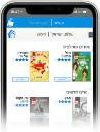
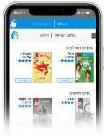
Coded most of the stuff, works good for chrome

diff --git a/index.html b/index.html
@@ -3,6 +3,7 @@
 <html lang="en">
 <head>
   <meta charset="utf-8">
+  <meta name="viewport" content="width=device-width">
 
   <title>Yes website</title>
 
@@ -12,51 +13,60 @@
 
 <body>
   <header>
-    <img src="assets/header.png" alt="join us">
+    <img class="title" src="assets/header.png" alt="join us">
   </header>
-  <section>
-    <article>
-      <h2>קטלוג ספרים דיגיטליים לכולם עם אלפי ספרים לקריאה מהסמארטפון ומהטאבלט</h1>
-      <ul>
-        <li>קטלוג ספרים זמין 24/7</li>
-        <li>קוראים בקצב שלכם ללא הגבלת זמן</li>
-        <li>לבחור ספרים, להוריד ולקרוא מבלי לגעת בחבילת הגלישה שלכם</li>
-        <li>לקחת בהשאלה 2 ספרים בחודש ללא תוספת תשלום</li>
-        <li>מבחר ספרים עדכני</li>
-        <li>הספרים איתכם בכל זמן ובכל מקום</li>
-        <li>טסים לחו"ל?
-          לא צריך לפחד מ-overweight
-        </li>
-        <li>גודל פונט בהתאמה אישית</li>
-      </ul>
-      <img src="assets/banner.png" alt="books in phone">        
-    </article>
-    <article>
-      <h2>חודש ראשון עלינו</h2>
-      <h3>ואח"כ רק 9.90 בחודש</h3>
-      <button>לקטלוג הספרים המלא</button>
-      <button>להורדת האפליקציה</button>
-    </article>
-  </section>
-  <section class="books">
-    <article class="book">74*55</article>
-    <article class="book"></article>
-    <article class="book"></article>
-    <article class="book"></article>
-    <article class="book"></article>
-    <article class="book"></article>
-    <article class="book"></article>
-    <article class="book"></article>
-  </section>
-  <footer>
-    <iframe width="560" height="315" 
-      src="https://www.youtube.com/embed/DI7z-lYj9yM" 
-      frameborder="0" 
-      allow="accelerometer; autoplay; 
-      encrypted-media; gyroscope; 
-      picture-in-picture" allowfullscreen>
-    </iframe>
-  </footer>
+  <main>
+    <section>
+      <article class="features">
+        <div class="list">
+          <h2>קטלוג ספרים דיגיטליים לכולם עם אלפי ספרים לקריאה מהסמארטפון ומהטאבלט</h1>
+          <div class="list-items">
+            <ul>
+              <li>קטלוג ספרים זמין 24/7</li>
+              <li>קוראים בקצב שלכם ללא הגבלת זמן</li>
+              <li>לבחור ספרים, להוריד ולקרוא מבלי לגעת בחבילת הגלישה שלכם</li>
+              <li>לקחת בהשאלה 2 ספרים בחודש ללא תוספת תשלום</li>
+              <li>מבחר ספרים עדכני</li>
+              <li>הספרים איתכם בכל זמן ובכל מקום</li>
+              <li>טסים לחו"ל?
+                לא צריך לפחד מ-overweight
+              </li>
+              <li>גודל פונט בהתאמה אישית</li>
+            </ul>
+            <img class="example small" src="assets/banner.png" alt="books in phone">
+          </div>
+        </div>
+        <img class="example big" src="assets/banner.png" alt="books in phone">
+      </article>
+      <article class="join-us">
+        <h2>חודש ראשון עלינו</h2>
+        <h3>ואח"כ רק 9.90 בחודש</h3>
+        <div class="buttons">
+          <button>לקטלוג הספרים המלא</button>
+          <button>להורדת האפליקציה</button>
+        </div>
+      </article>
+    </section>
+    <section class="books">
+      <article class="book">74*55</article>
+      <article class="book"></article>
+      <article class="book"></article>
+      <article class="book"></article>
+      <article class="book"></article>
+      <article class="book"></article>
+      <article class="book"></article>
+      <article class="book"></article>
+    </section>
+    <section class="advert">
+      <iframe width="560" height="315" 
+        src="https://www.youtube.com/embed/DI7z-lYj9yM" 
+        frameborder="0" 
+        allow="accelerometer; autoplay; 
+        encrypted-media; gyroscope; 
+        picture-in-picture" allowfullscreen>
+      </iframe>
+    </section>
+  </main>
   <!-- <script src="js/scripts.js"></script> -->
 </body>
 </html>

diff --git a/css/styles.css b/css/styles.css
@@ -1,12 +1,101 @@
-h1 {
+html {
+    direction: rtl;
+}
+.title {
+    width: 100%;
+}
+.features {
+    display: flex;
+    width: 90%;
+    margin-left: auto;
+    margin-right: auto;
+}
+.features .example.small {
+    display: none;
+}
+.features .example.big {
+    margin-top: auto;
+    margin-bottom: auto;
+    order: 0;
+    
+}
+.features .list {
+    display: flex;
+    flex-direction: column;
+    order: 1;
+}
+.list h2{
     color: #434343;
+}
+.list ul {
+    display: flex;
+    flex-wrap: wrap;
+}
+.list ul li {
+    width: 40%;
+    margin-left: 4%;
+}
+.join-us {
+    margin: 50px 0;
+    display: flex;
+    justify-content: center;
+    flex-direction: column;
+    align-items: center;
+}
+.join-us h2{
+    color: #d5488c;
+}
+.join-us h3{
+    color: #a6678a;
+}
+.join-us .buttons{ 
+    width: 100%;
+    display: flex;
+    justify-content: center;
+}
+.join-us button:first-of-type {
+    margin-left: 10px;
+}
+.join-us button {
+    background-color: #ed208f;
+    color: white;
+    width: 25%;
+    height: 40px;
+    border-radius: 10px;
+    border: 0px;
 }
 .books {
     display: flex;
-    
+    justify-content: space-between;
+    margin: 50px 0;
 }
 .books .book {
     width: 74px;
     height: 55px;
     background-color: blueviolet;
 }
+
+.advert {
+    display: flex;
+    justify-content: center;
+}
+@media (max-width: 640px) {
+    .list ul li {
+        width: 100%;
+    }
+    .features {
+        width: initial;
+    }
+    .features .list {
+        order: 0;
+    }
+    .features .example.big {
+        display: none;
+    }
+    .features .example.small {
+        display: initial;
+    }
+    .list-items {
+        display: flex;
+    }
+  }
